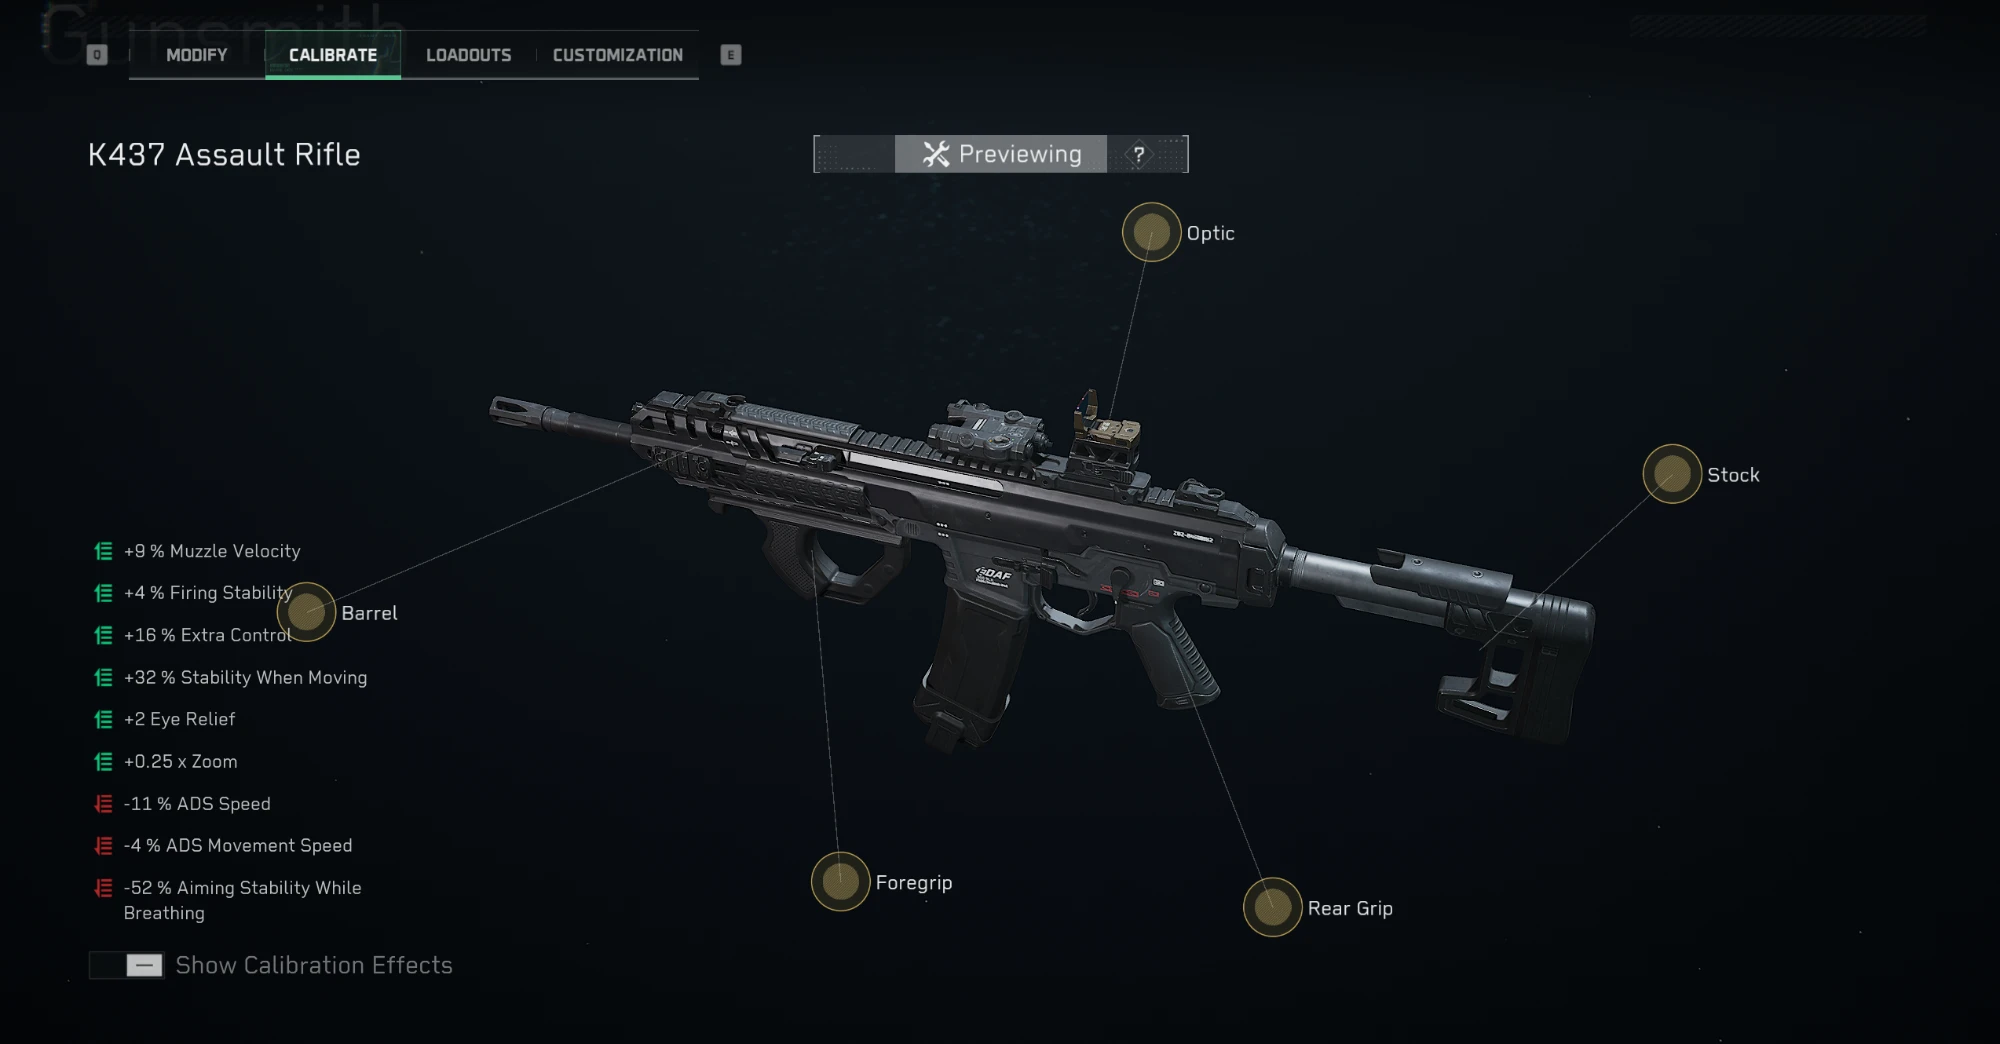
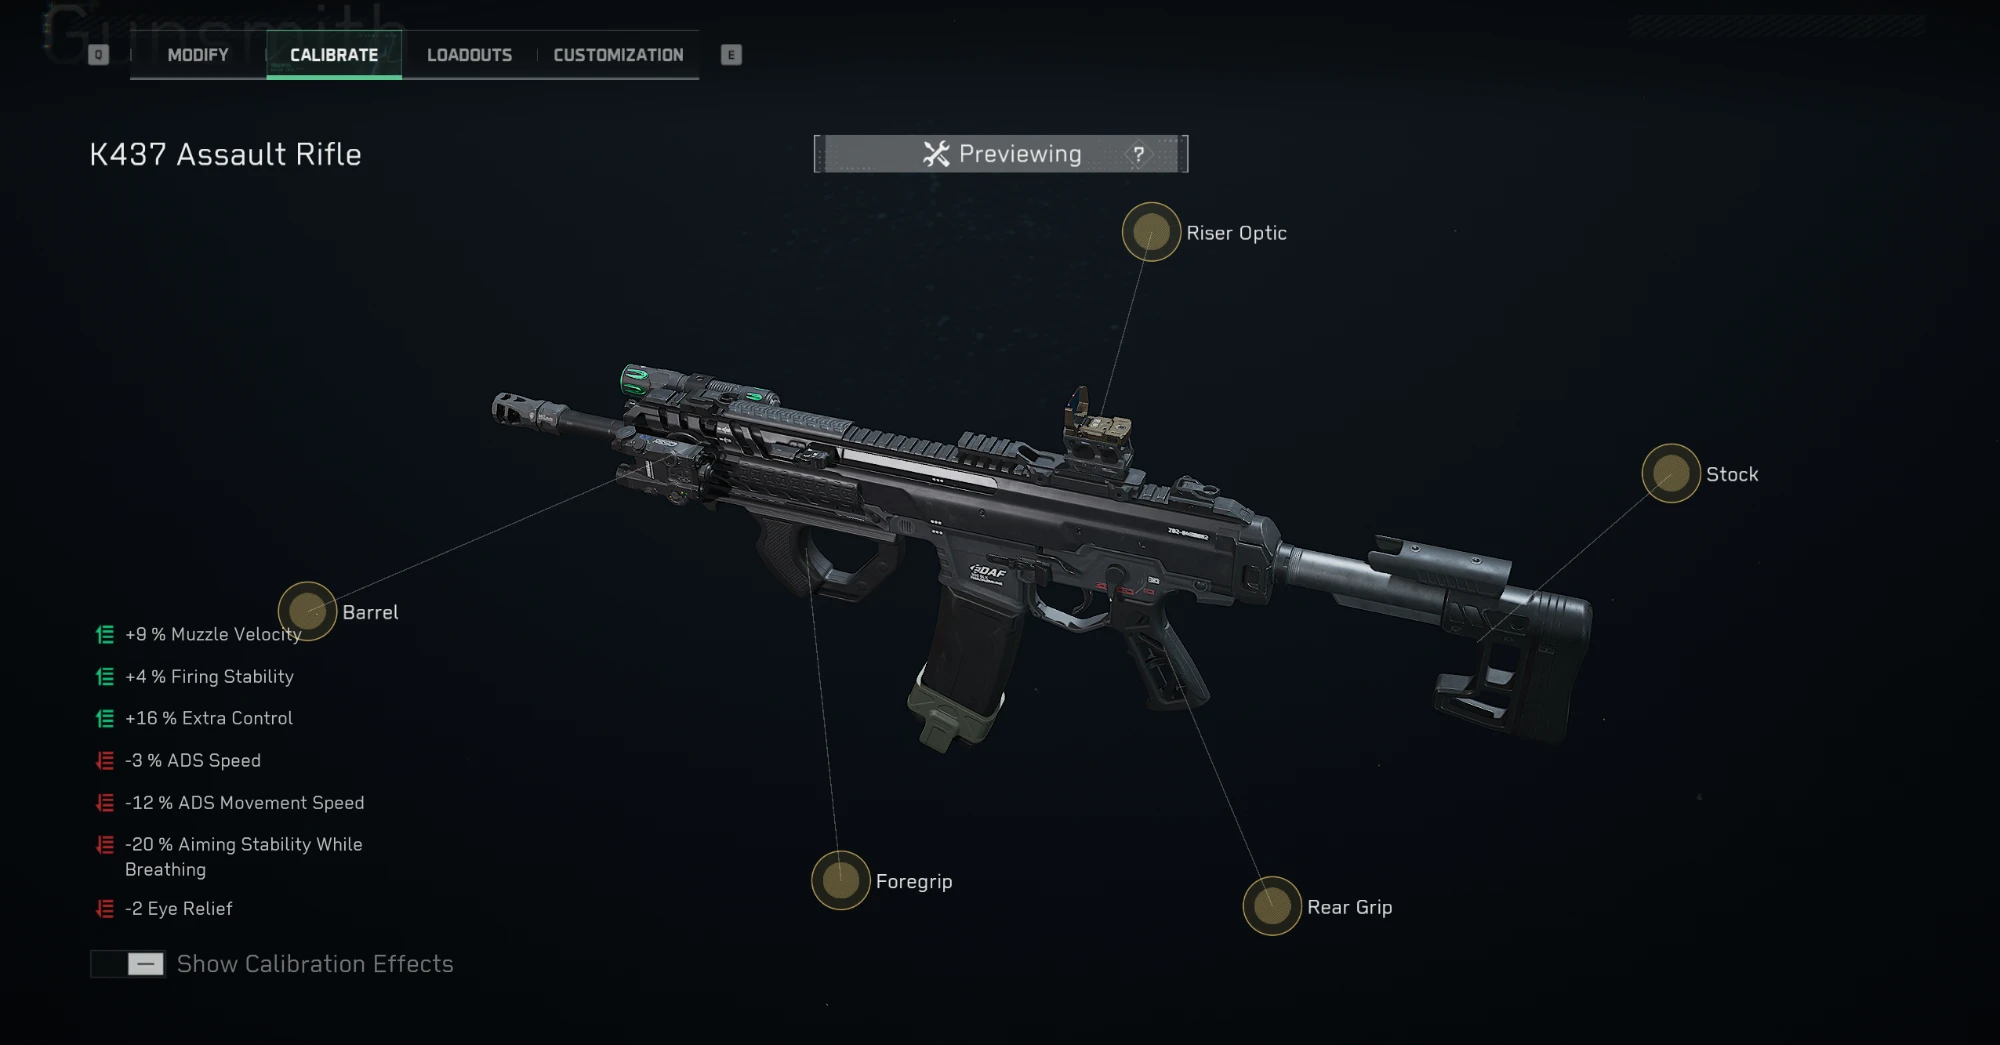
Update K437 build code and screenshots
Claude-Session: https://claude.ai/code/session_01MEwK1GBeKu5nA7oofRz3c1

diff --git a/js/builds.js b/js/builds.js
@@ -65,7 +65,7 @@ window.GUN_BUILDS = {
       code: "AS Val Assault Rifle-Operations (Extraction Mode)-6LFEJOG014H9D6PDMV79E" },
     { id: "k437", weapon: "K437", category: "Assault Rifle", image: "images/guns/k437.webp",
       calibration: "images/guns/k437-calibration.webp",
-      code: "K437 Assault Rifle-Operations (Extraction Mode)-6LH29G00F1274DR0HHHLC" },
+      code: "K437 Assault Rifle-Operations (Extraction Mode)-6LP2NSC014H9D6PDMV79E" },
     { id: "mdr", weapon: "MDR", category: "Assault Rifle", image: "images/guns/mdr.webp",
       calibration: "images/guns/mdr-calibration.webp",
       code: "MDR Assault Rifle-Operations (Extraction Mode)-6LAGELG014H9D6PDMV79E" },
